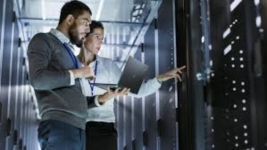
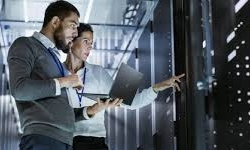
customer

diff --git a/public/index.html b/public/index.html
@@ -129,7 +129,7 @@
 
     <div class="col-lg-3 col-xl-3 ">
       <div class="card">
-  <img class="card-img-top" src="images/distributor2.jpg" alt="Card image cap">
+  <img class="card-img-top" src="images/distributor3.jpg" alt="Card image cap">
   <div class="card-body">
     <h2 class="card-title">Distributor</h2>
     <p class="card-text">Cummins products are distributed around the globe through a worldwide network of elite channel partners which allows it to deliver industry-leading sales.</p>
